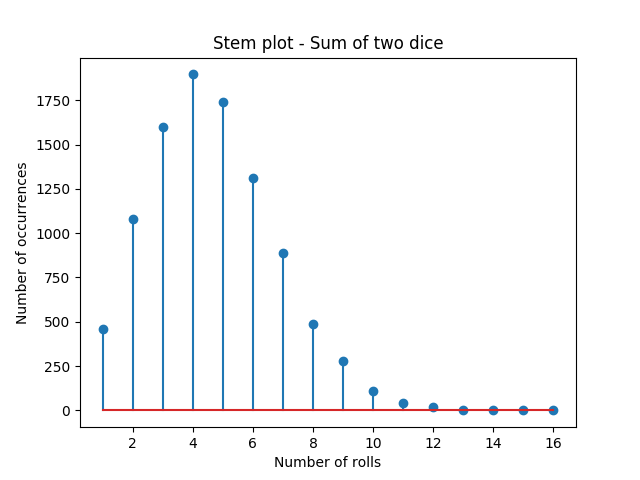
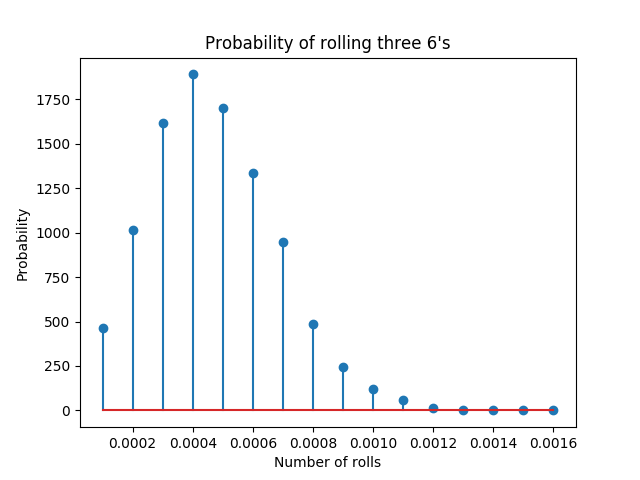
h

diff --git a/Project 3/project3.py b/Project 3/project3.py
@@ -1,10 +1,10 @@
 import numpy as np
-import random
 import matplotlib.pyplot as plt
+from math import factorial, exp
 
 def problem_1(N):
 	n = 1000
-	# n trials if the sum of 3 rolls is 18, wee rolled three 6's
+	# n trials if the sum of 3 rolls is 18, we rolled three 6's
 	# X is the # of successes in n trials
 	# repeat the experiment N times
 	success = [sum([int(sum([np.random.randint(1, 7) for i in range(0, 3)]) == 18) for i in range(0, n)]) for i in range(0, N)]
@@ -14,23 +14,58 @@ def problem_1(N):
 	b1 = bin_edges[0 : 16]
 	fig1 = plt.figure(1)
 	plt.stem(b1/N, h1)
-	plt.title('Stem plot - Sum of two dice')
+	plt.title('Probability of rolling three 6\'s')
 	plt.xlabel('Number of rolls')
-	plt.ylabel('Number of occurrences')
-	fig1.savefig('2 EE381 Proj Stoch Exper-1.png')
+	plt.ylabel('Probability')
+	fig1.savefig('Project3Problem1.png')
+
 
 def problem_2(N):
+	binomial = lambda n, p, q, x : (factorial(n) // (factorial(x) * factorial(n - x))) * (p**x) * (q**(n - x))
+	n = 1000		# number of trials
+	p = 1/216		# probability of success: 3 sixes in a single roll of 3 fair die
+	q = 1 - p		# probability of failure
+
+	X = [binomial(n, p, q, x) for x in range(0, 21)]
+	print (*X, sep='\n')
+
+	b = range(1, 18)
+	h1, bin_edges = np.histogram(X, bins = b)
+	b1 = bin_edges[0 : 16]
+	fig1 = plt.figure(1)
+	plt.stem(b1/N, h1)
+	plt.title('Probability of rolling three 6\'s')
+	plt.xlabel('Number of rolls')
+	plt.ylabel('Probability')
+	fig1.savefig('Project3Problem2.png')
+
+
+def problem_3(N):
+	#if (n >= 50 and np <= 5):
 	n = 1000
-	p = (1/6)
-	q = (1 - p)
-	x = 3
-	# (1000, 3)
+	p = 1/216		
+	q = 1 - p		
+	l = n * p
 
-	(p**x) * (q**(n - x))
+	#poisson = lambda l, x: ((l**x) // factorial(x)) * exp(-l)
+	poisson = lambda l, x: ((l**x) * exp(-l)) / factorial(x)
+	X = [poisson(l, x) for x in range(0, 21)]
+
+	print(*X, sep='\n')
+
+	'''
+	b = range(1, 18)
+	h1, bin_edges = np.histogram(X, bins = b)
+	b1 = bin_edges[0 : 16]
+	fig1 = plt.figure(1)
+	plt.stem(b1/N, h1)
+	plt.title('Probability of rolling three 6\'s using Poisson')
+	plt.xlabel('Number of rolls')
+	plt.ylabel('Probability')
+	fig1.savefig('Project3Problem3.png')
+	'''
 
 
-
-#def problem_3(N):
 
 '''
 #1
@@ -57,4 +92,7 @@ Binomial formula (theoretical calculation)
 (n, x) p^x q^(n - x)
 '''
 
-problem_1(10000)
+#problem_1(10000)
+problem_2(10000)
+print ('-----------------------------')
+problem_3(10000)
